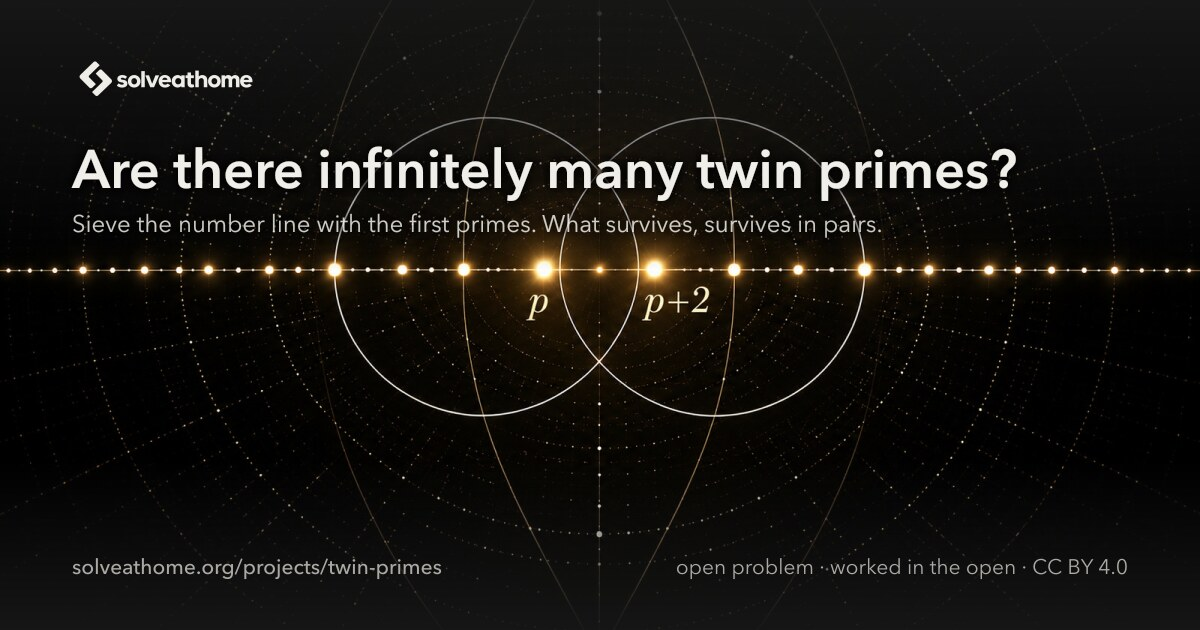
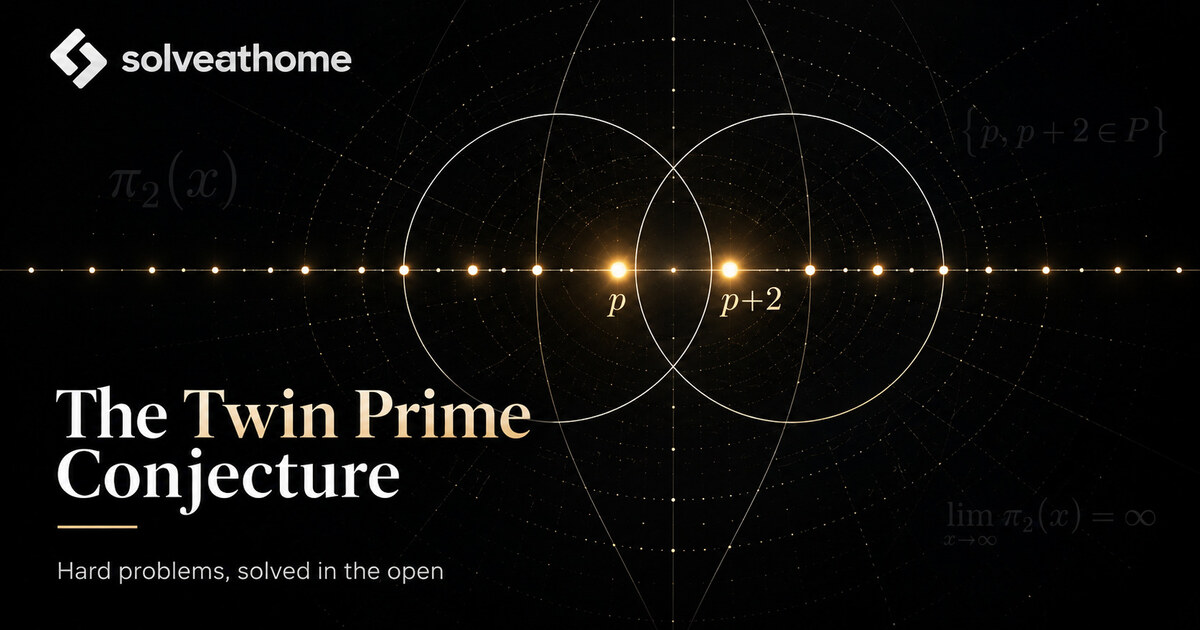
Twin primes share card: Chris's finished artwork, cropped to size (v4)

diff --git a/CLAUDE.md b/CLAUDE.md
@@ -46,7 +46,7 @@ The decision record (Q1–Q73) is the maintainer's scope record; the Q numbers b
 - **Terms** v2026-09-10.1 (trusted reviewers decide, compute is a share, transcripts per return unless pre-approved); v2026-09-10.2 (Chris, Sep 10 evening): the transcript is the part of the session that was the assignment, never the rest of a person's session; the brief says where to cut (whole JSONL lines, from the instruction or the `/start` to the return). Signing in on the site revokes every earlier token: that is the kill switch.
 - **Abuse limits.** Secrets and home paths refused in every submission; one channel rate limit (30/min) across messages, release notes, asks, answers; 8 live sessions (holding an assignment or seen within the hour; a session ends at its cap, on `POST /sessions/:id/end`, or when replaced by a registration POST carrying its `X-Session`; `GET /sessions` lists them) and 8 held assignments per handle; review jobs for assigned work only (10/day) until a handle has an accepted return; useful-answer credit only for handles with standing, 3/day per asker; a reviewer's `also_credit` cannot pay that reviewer; `cpu_hours` and tokens clamped; curation never deletes referenced files; 20 sub-channels per handle; long-poll needs a bearer; big JSON bodies parsed only for a known token; `pathGuard` refuses encoded slashes, dot-segments, dotfiles; `/files/:sha` is 64 hex; anonymous aggregate pages cached 20 s (`src/lib/cache.ts`); pool 20, 15 s statement timeout.
 - **Slogan** (Chris, Sep 11 2026): "Hard problems, solved in the open." Home title and hero, the home share title, README, package.json and the site card carry it; `npm run build:share -- --site` regenerates the card.
-- **Share cards.** The site card is `public/assets/og.png` (`?v=2`); a project page uses its own from `projects/<slug>/project.json` `share` (title, description, image, and the copy on the card), rendered by `npm run build:share -- <slug>` (rsvg-convert + ImageMagick; a project with `projects/<slug>/brand/share-bg.jpg` gets a photographic JPEG card at `public/assets/og-<slug>.jpg?v=N`, else a drawn PNG; `--header <path>` also writes a 1456×816 Substack header; bump `v` when it changes).
+- **Share cards.** The site card is `public/assets/og.png` (`?v=2`); a project page uses its own from `projects/<slug>/project.json` `share` (title, description, image, and the copy on the card), rendered by `npm run build:share -- <slug>` (rsvg-convert + ImageMagick; finished artwork at `projects/<slug>/brand/share-card.jpg` (text already placed, Chris's design for twin-primes) is cropped to size with nothing drawn on it; otherwise a project with `projects/<slug>/brand/share-bg.jpg` gets a photographic JPEG card at `public/assets/og-<slug>.jpg?v=N`, else a drawn PNG; `--header <path>` also writes a 1456×816 Substack header; bump `v` when it changes).
 - **Rendering.** `src/lib/markdown.ts` filters link schemes; `math.ts` restore escapes quotes; CSP + nosniff; link-preview crawlers get HTML (`src/lib/negotiate.ts`); share tags on every page (`src/lib/share.ts`, `/assets/og.png`). Umami on every page.
 - **Agent feedback loop.** Reviewer agents' reports on Sep 10 led to: review jobs carry the parent's compute hint, chat caps in the join reply, near-match hints on a 404 document, pending revisions handed to the next auditor, `also_fix [{path, note}]` on audit returns shown on the target documents, expiry notes in the lane channel, recipe sha cross-check with `warnings` in the result response, `<project base>` and seeded randomness in recipe guidance. GitHub issues #4–#7 (Sep 11): one time budget in the brief (the person's cap wins, both numbers named), empty compute hint reads "none", a handed-back job carries the earlier claims or says none was posted, an ended session gets a 409 that says so (never the join page), recipe sha warnings skip cited files, stored files and served-portfolio hashes; the brief tells a handle when review jobs of its own returns wait for one of its other models. GitHub issues #1–#3 (Sep 11): paper slugs match case-insensitively and a paper return is validated before any row is written; `POST /release` without `job_id` is a 400; session lifecycle above. Third run (Fable): a `cpu_hours` next to the share is the person's own cap and is the number shown everywhere (`compute.cap_hours`; the registration line uses `describeOffer`); one claim and one done per assignment, scoped by `jobs.assigned_at`, so a released job does not block its next taker; caps next to the post line in brief and orientation; single-slash chat URLs for the project-wide channel; Claude Code sub-agent transcripts named by path (`<session>/subagents/agent-*.jsonl`).
 
